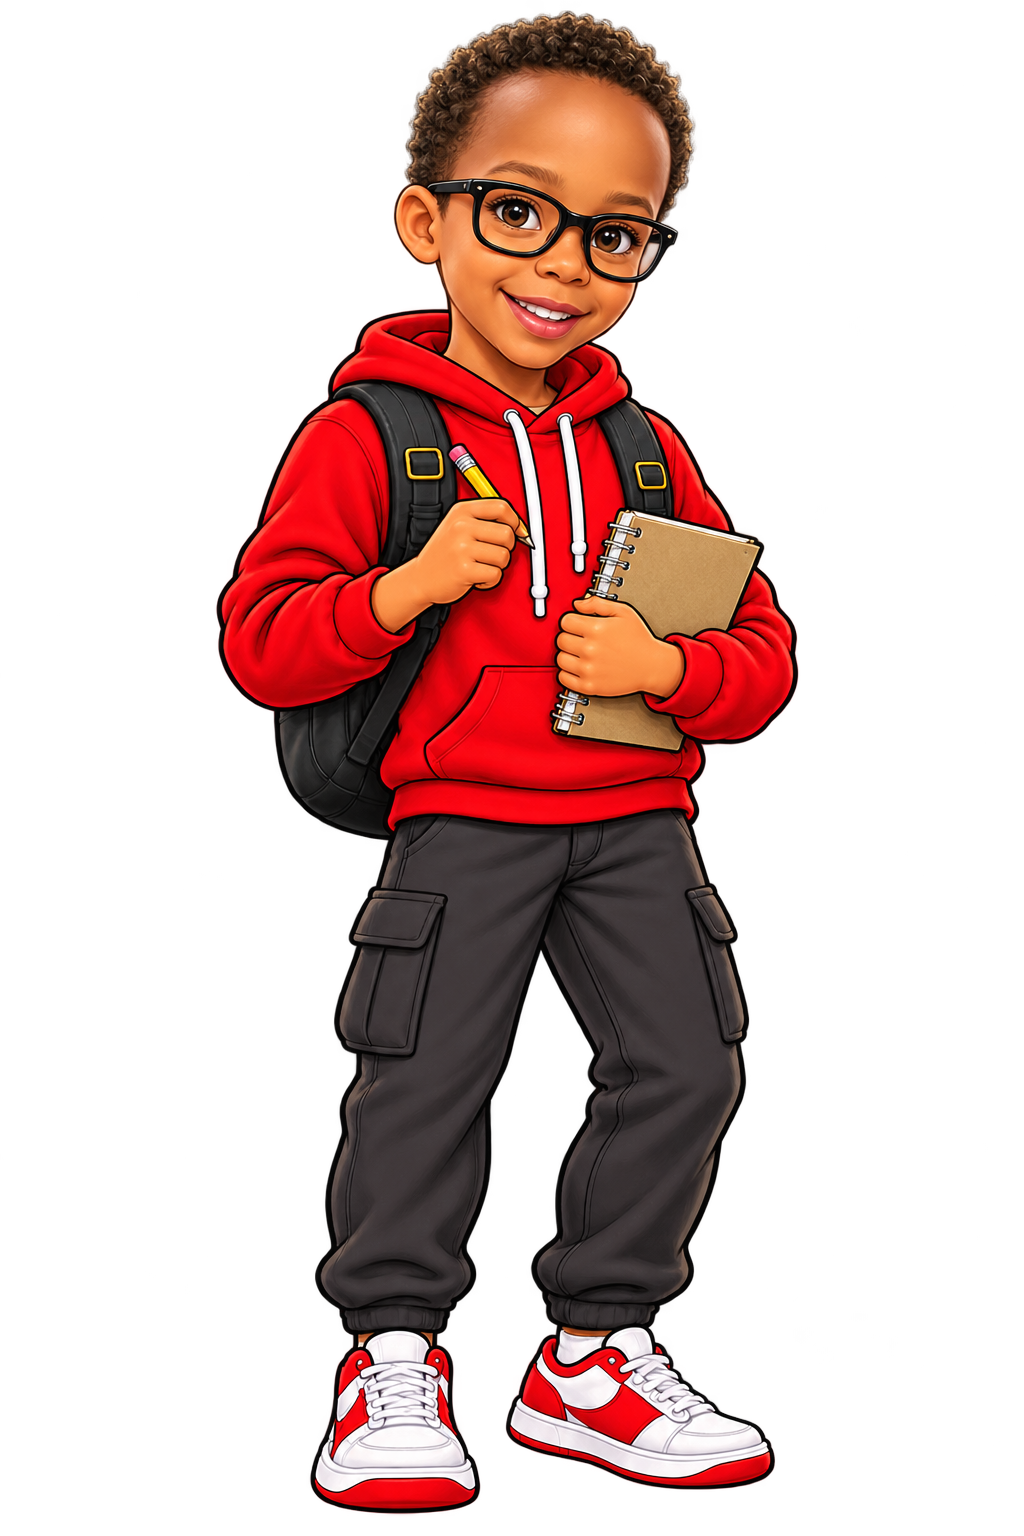
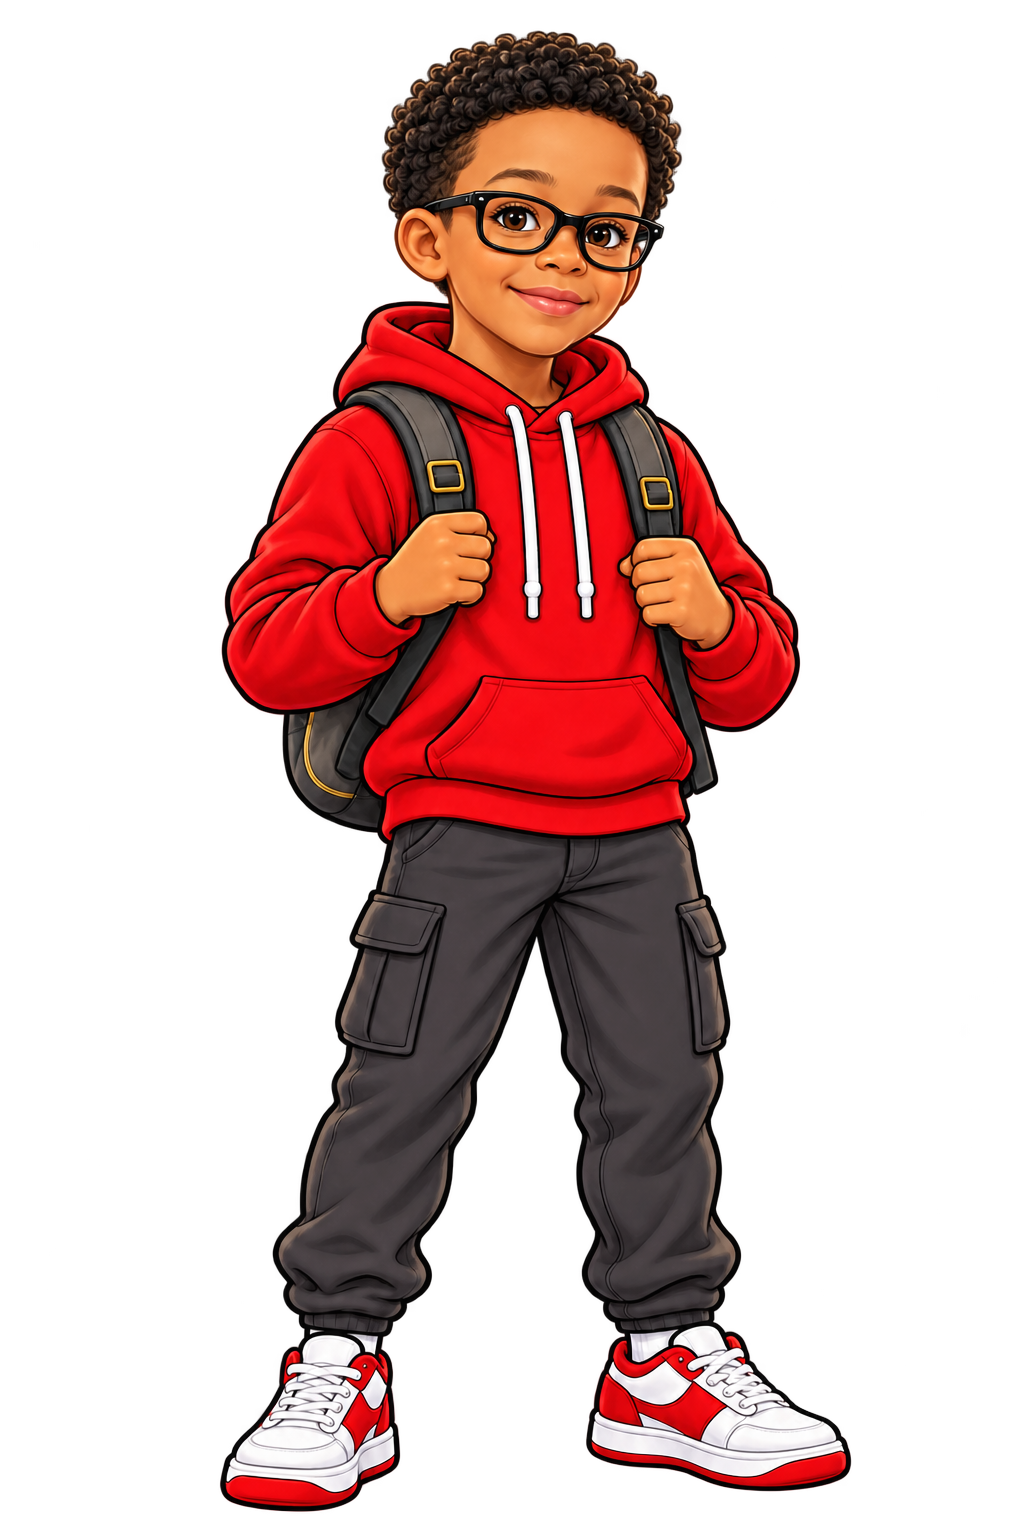
Rebalance Everest and Zion proportions

Changed region(s): [[0.1875, 0.0, 0.8438, 1.0]]

diff --git a/money-ops/src/runner.js b/money-ops/src/runner.js
@@ -5,7 +5,7 @@ export class FinancialRunner{
  constructor(canvas,config,{characterId='maya',ownedItems=[],onUpdate=()=>{},onComplete=()=>{}}={}){
   this.canvas=canvas;this.ctx=canvas.getContext('2d');this.config=config;this.characterId=characterId;this.ownedItems=new Set(ownedItems);this.onUpdate=onUpdate;this.onComplete=onComplete;this.reduced=matchMedia('(prefers-reduced-motion: reduce)').matches;
   this.width=960;this.height=360;this.ground=292;this.entities=[];this.particles=[];this.popups=[];this.keys=new Set();this.running=false;this.paused=false;this.completed=false;this.last=0;this.spawnIn=1.55;this.rewardIn=.45;this.powerIn=11;this.boxIn=5;this.speed=155*config.difficulty;this.distance=0;this.lives=config.maxLives;this.coins=0;this.collected=0;this.bonusMoney=0;this.xp=0;this.score=0;this.avoided=0;this.combo=0;this.powerUpsUsed=0;this.invulnerable=0;this.companionShield=this.ownedItems.has('companion');this.activePower=null;this.state='idle';this.stateTime=0;this.vocabularyIndex=0;this.vocabularySeen=[];this.vocabEvent=null;this.vocabSerial=0;this.player={x:112,y:this.ground-124,w:82,h:124,vy:0,grounded:true,duck:false};
-  this.startedAt=0;this.endAt=0;this.lastHud=0;this.pendingStart=null;this.imageReady=false;this.imageFailed=false;this.image=new Image();this.image.onload=()=>{this.imageReady=true;if(this.pendingStart!==null){const pending=this.pendingStart;this.pendingStart=null;this.start(pending);}};this.image.onerror=()=>{this.imageFailed=true;if(this.pendingStart!==null){const pending=this.pendingStart;this.pendingStart=null;this.start(pending);}};this.image.src=new URL(`../assets/runner/${characterId}-right.png?v=43.5`,import.meta.url).href;this.imageReady=Boolean(this.image.complete&&this.image.naturalWidth);this.boundFrame=time=>this.frame(time);this.boundKeyDown=event=>this.keyDown(event);this.boundKeyUp=event=>this.keyUp(event);this.boundBlur=()=>this.setPaused(true);this.pointerStart=null;
+  this.startedAt=0;this.endAt=0;this.lastHud=0;this.pendingStart=null;this.imageReady=false;this.imageFailed=false;this.image=new Image();this.image.onload=()=>{this.imageReady=true;if(this.pendingStart!==null){const pending=this.pendingStart;this.pendingStart=null;this.start(pending);}};this.image.onerror=()=>{this.imageFailed=true;if(this.pendingStart!==null){const pending=this.pendingStart;this.pendingStart=null;this.start(pending);}};this.image.src=new URL(`../assets/runner/${characterId}-right.png?v=43.6`,import.meta.url).href;this.imageReady=Boolean(this.image.complete&&this.image.naturalWidth);this.boundFrame=time=>this.frame(time);this.boundKeyDown=event=>this.keyDown(event);this.boundKeyUp=event=>this.keyUp(event);this.boundBlur=()=>this.setPaused(true);this.pointerStart=null;
   const ratio=Math.min(2,window.devicePixelRatio||1);canvas.width=this.width*ratio;canvas.height=this.height*ratio;this.ctx.setTransform(ratio,0,0,ratio,0,0);canvas.style.aspectRatio=`${this.width}/${this.height}`;
   canvas.addEventListener('pointerdown',event=>{this.pointerStart={x:event.clientX,y:event.clientY,time:Date.now()};});
   canvas.addEventListener('pointerup',event=>{const start=this.pointerStart;if(!start)return;const dy=event.clientY-start.y;if(dy>38)this.duck(.65);else this.jump();this.pointerStart=null;});

diff --git a/src/runner.js b/src/runner.js
@@ -5,7 +5,7 @@ export class FinancialRunner{
  constructor(canvas,config,{characterId='maya',ownedItems=[],onUpdate=()=>{},onComplete=()=>{}}={}){
   this.canvas=canvas;this.ctx=canvas.getContext('2d');this.config=config;this.characterId=characterId;this.ownedItems=new Set(ownedItems);this.onUpdate=onUpdate;this.onComplete=onComplete;this.reduced=matchMedia('(prefers-reduced-motion: reduce)').matches;
   this.width=960;this.height=360;this.ground=292;this.entities=[];this.particles=[];this.popups=[];this.keys=new Set();this.running=false;this.paused=false;this.completed=false;this.last=0;this.spawnIn=1.55;this.rewardIn=.45;this.powerIn=11;this.boxIn=5;this.speed=155*config.difficulty;this.distance=0;this.lives=config.maxLives;this.coins=0;this.collected=0;this.bonusMoney=0;this.xp=0;this.score=0;this.avoided=0;this.combo=0;this.powerUpsUsed=0;this.invulnerable=0;this.companionShield=this.ownedItems.has('companion');this.activePower=null;this.state='idle';this.stateTime=0;this.vocabularyIndex=0;this.vocabularySeen=[];this.vocabEvent=null;this.vocabSerial=0;this.player={x:112,y:this.ground-124,w:82,h:124,vy:0,grounded:true,duck:false};
-  this.startedAt=0;this.endAt=0;this.lastHud=0;this.pendingStart=null;this.imageReady=false;this.imageFailed=false;this.image=new Image();this.image.onload=()=>{this.imageReady=true;if(this.pendingStart!==null){const pending=this.pendingStart;this.pendingStart=null;this.start(pending);}};this.image.onerror=()=>{this.imageFailed=true;if(this.pendingStart!==null){const pending=this.pendingStart;this.pendingStart=null;this.start(pending);}};this.image.src=new URL(`../assets/runner/${characterId}-right.png?v=43.5`,import.meta.url).href;this.imageReady=Boolean(this.image.complete&&this.image.naturalWidth);this.boundFrame=time=>this.frame(time);this.boundKeyDown=event=>this.keyDown(event);this.boundKeyUp=event=>this.keyUp(event);this.boundBlur=()=>this.setPaused(true);this.pointerStart=null;
+  this.startedAt=0;this.endAt=0;this.lastHud=0;this.pendingStart=null;this.imageReady=false;this.imageFailed=false;this.image=new Image();this.image.onload=()=>{this.imageReady=true;if(this.pendingStart!==null){const pending=this.pendingStart;this.pendingStart=null;this.start(pending);}};this.image.onerror=()=>{this.imageFailed=true;if(this.pendingStart!==null){const pending=this.pendingStart;this.pendingStart=null;this.start(pending);}};this.image.src=new URL(`../assets/runner/${characterId}-right.png?v=43.6`,import.meta.url).href;this.imageReady=Boolean(this.image.complete&&this.image.naturalWidth);this.boundFrame=time=>this.frame(time);this.boundKeyDown=event=>this.keyDown(event);this.boundKeyUp=event=>this.keyUp(event);this.boundBlur=()=>this.setPaused(true);this.pointerStart=null;
   const ratio=Math.min(2,window.devicePixelRatio||1);canvas.width=this.width*ratio;canvas.height=this.height*ratio;this.ctx.setTransform(ratio,0,0,ratio,0,0);canvas.style.aspectRatio=`${this.width}/${this.height}`;
   canvas.addEventListener('pointerdown',event=>{this.pointerStart={x:event.clientX,y:event.clientY,time:Date.now()};});
   canvas.addEventListener('pointerup',event=>{const start=this.pointerStart;if(!start)return;const dy=event.clientY-start.y;if(dy>38)this.duck(.65);else this.jump();this.pointerStart=null;});

diff --git a/money-ops/src/app.js b/money-ops/src/app.js
@@ -15,7 +15,7 @@ const money=n=>new Intl.NumberFormat('en-US',{style:'currency',currency:'USD',ma
 const escape=s=>String(s).replace(/[&<>"']/g,c=>({'&':'&amp;','<':'&lt;','>':'&gt;','"':'&quot;',"'":'&#39;'}[c]));
 const button=(text,action,cls='',extra='')=>`<button class="${cls}" data-action="${action}" ${extra}>${text}</button>`;
 function progress(){const next=nextRank(p.xp);const current=ranks.filter(r=>p.xp>=r[1]).at(-1);const pct=next?Math.min(100,(p.xp-current[1])/(next[1]-current[1])*100):100;return `<div class="xp-row"><span>${p.xp} XP</span><span>${next?`${next[1]-p.xp} TO ${next[0].toUpperCase()}`:'TOP RANK'}</span></div><div class="bar" role="progressbar" aria-label="Rank progress" aria-valuenow="${Math.round(pct)}" aria-valuemin="0" aria-valuemax="100"><i style="width:${pct}%"></i></div>`;}
-function header(){const arcade=p.mode==='arcade';return `<header><a class="brand" href="./" aria-label="Money Ops home"><span class="brand-mark">M<span>↗</span></span><span><small>FINANCIAL FREEDOM</small><b>MONEY OPS<span class="version"> / 43.5</span></b></span></a><div class="header-right"><span class="system ${arcade?'arcade-unsaved':''}"><i></i> ${arcade?'ARCADE MODE · NOT SAVED':'CAREER SAVED'}</span>${button(p.muted?'SOUND OFF':'SOUND ON','mute','utility',`aria-pressed="${!p.muted}" aria-label="${p.muted?'Enable':'Mute'} sound"`)}</div></header>`;}
+function header(){const arcade=p.mode==='arcade';return `<header><a class="brand" href="./" aria-label="Money Ops home"><span class="brand-mark">M<span>↗</span></span><span><small>FINANCIAL FREEDOM</small><b>MONEY OPS<span class="version"> / 43.6</span></b></span></a><div class="header-right"><span class="system ${arcade?'arcade-unsaved':''}"><i></i> ${arcade?'ARCADE MODE · NOT SAVED':'CAREER SAVED'}</span>${button(p.muted?'SOUND OFF':'SOUND ON','mute','utility',`aria-pressed="${!p.muted}" aria-label="${p.muted?'Enable':'Mute'} sound"`)}</div></header>`;}
 function playerPortrait(className='',id=p.avatar){return characters[id]?portrait(id,className):`<span class="avatar">${escape(id)}</span>`;}
 function runnerCharacterId(session=p?.runnerSession){if(p?.mode==='arcade')return p.avatar;const lesson=Math.max(1,Number(session?.lessonId)||1),offset=session?.phase==='post'?1:0;return castIds[(lesson-1+offset)%castIds.length];}
 const bonusItems=[{id:'boots',name:'BOOST BOOTS',price:5,icon:'⇧',detail:'Jump higher.'},{id:'magnet',name:'COIN MAGNET',price:10,icon:'◎',detail:'Pull coins closer.'},{id:'companion',name:'PENNY THE MONEY DRAGON',price:15,icon:'🐲',detail:'Your original Money Ops sidekick blocks one hit.'}];

diff --git a/src/app.js b/src/app.js
@@ -15,7 +15,7 @@ const money=n=>new Intl.NumberFormat('en-US',{style:'currency',currency:'USD',ma
 const escape=s=>String(s).replace(/[&<>"']/g,c=>({'&':'&amp;','<':'&lt;','>':'&gt;','"':'&quot;',"'":'&#39;'}[c]));
 const button=(text,action,cls='',extra='')=>`<button class="${cls}" data-action="${action}" ${extra}>${text}</button>`;
 function progress(){const next=nextRank(p.xp);const current=ranks.filter(r=>p.xp>=r[1]).at(-1);const pct=next?Math.min(100,(p.xp-current[1])/(next[1]-current[1])*100):100;return `<div class="xp-row"><span>${p.xp} XP</span><span>${next?`${next[1]-p.xp} TO ${next[0].toUpperCase()}`:'TOP RANK'}</span></div><div class="bar" role="progressbar" aria-label="Rank progress" aria-valuenow="${Math.round(pct)}" aria-valuemin="0" aria-valuemax="100"><i style="width:${pct}%"></i></div>`;}
-function header(){const arcade=p.mode==='arcade';return `<header><a class="brand" href="./" aria-label="Money Ops home"><span class="brand-mark">M<span>↗</span></span><span><small>FINANCIAL FREEDOM</small><b>MONEY OPS<span class="version"> / 43.5</span></b></span></a><div class="header-right"><span class="system ${arcade?'arcade-unsaved':''}"><i></i> ${arcade?'ARCADE MODE · NOT SAVED':'CAREER SAVED'}</span>${button(p.muted?'SOUND OFF':'SOUND ON','mute','utility',`aria-pressed="${!p.muted}" aria-label="${p.muted?'Enable':'Mute'} sound"`)}</div></header>`;}
+function header(){const arcade=p.mode==='arcade';return `<header><a class="brand" href="./" aria-label="Money Ops home"><span class="brand-mark">M<span>↗</span></span><span><small>FINANCIAL FREEDOM</small><b>MONEY OPS<span class="version"> / 43.6</span></b></span></a><div class="header-right"><span class="system ${arcade?'arcade-unsaved':''}"><i></i> ${arcade?'ARCADE MODE · NOT SAVED':'CAREER SAVED'}</span>${button(p.muted?'SOUND OFF':'SOUND ON','mute','utility',`aria-pressed="${!p.muted}" aria-label="${p.muted?'Enable':'Mute'} sound"`)}</div></header>`;}
 function playerPortrait(className='',id=p.avatar){return characters[id]?portrait(id,className):`<span class="avatar">${escape(id)}</span>`;}
 function runnerCharacterId(session=p?.runnerSession){if(p?.mode==='arcade')return p.avatar;const lesson=Math.max(1,Number(session?.lessonId)||1),offset=session?.phase==='post'?1:0;return castIds[(lesson-1+offset)%castIds.length];}
 const bonusItems=[{id:'boots',name:'BOOST BOOTS',price:5,icon:'⇧',detail:'Jump higher.'},{id:'magnet',name:'COIN MAGNET',price:10,icon:'◎',detail:'Pull coins closer.'},{id:'companion',name:'PENNY THE MONEY DRAGON',price:15,icon:'🐲',detail:'Your original Money Ops sidekick blocks one hit.'}];

diff --git a/money-ops/tests/runner-engine.test.js b/money-ops/tests/runner-engine.test.js
@@ -27,7 +27,8 @@ test('the three updated boys have distinct high-resolution transparent portrait 
  for(const id of ['jordan','kai','eli']){
   const portrait=dimensions(new URL(`../assets/cast/${id}.png`,import.meta.url));
   const runner=dimensions(new URL(`../assets/runner/${id}-right.png`,import.meta.url));
-  assert.ok(portrait.width>=800&&portrait.height>=1500,`${id} needs high-resolution portrait art`);
+  assert.equal(portrait.width,1024,`${id} portrait canvas width`);
+  assert.equal(portrait.height,1536,`${id} portrait canvas height`);
   assert.ok(runner.width>=1300&&runner.height>=1100,`${id} needs high-resolution runner art`);
   assert.equal(portrait.colorType,6,`${id} portrait needs transparency`);
   assert.equal(runner.colorType,6,`${id} runner needs transparency`);
@@ -53,7 +54,7 @@ test('the run ends when the player collects the 100th reward',()=>{
 
 test('the selected character art is loaded and the kid-friendly pace accelerates gently',()=>{
  const game=harness(1,'pre').runner;
- assert.match(game.image._src,/assets\/runner\/maya-right\.png\?v=43\.5$/);
+ assert.match(game.image._src,/assets\/runner\/maya-right\.png\?v=43\.6$/);
  assert.equal(game.player.w,82);
  assert.equal(game.player.h,124);
  assert.equal(game.speed,155);
@@ -75,7 +76,7 @@ test('Money Boxes add bonus dollars and owned items change play',()=>{
  assert.equal(game.runner.companionShield,true);
  game.runner.invulnerable=0;game.runner.hitObstacle({x:200,y:240,w:50,h:50,done:false});
  assert.equal(game.runner.lives,3,'the original companion blocks one collision');
- assert.match(game.runner.image._src,/assets\/runner\/ruby-right\.png\?v=43\.5$/);
+ assert.match(game.runner.image._src,/assets\/runner\/ruby-right\.png\?v=43\.6$/);
 });
 
 test('runner events publish lesson vocabulary for the side stream',()=>{

diff --git a/tests/runner-engine.test.js b/tests/runner-engine.test.js
@@ -27,7 +27,8 @@ test('the three updated boys have distinct high-resolution transparent portrait 
  for(const id of ['jordan','kai','eli']){
   const portrait=dimensions(new URL(`../assets/cast/${id}.png`,import.meta.url));
   const runner=dimensions(new URL(`../assets/runner/${id}-right.png`,import.meta.url));
-  assert.ok(portrait.width>=800&&portrait.height>=1500,`${id} needs high-resolution portrait art`);
+  assert.equal(portrait.width,1024,`${id} portrait canvas width`);
+  assert.equal(portrait.height,1536,`${id} portrait canvas height`);
   assert.ok(runner.width>=1300&&runner.height>=1100,`${id} needs high-resolution runner art`);
   assert.equal(portrait.colorType,6,`${id} portrait needs transparency`);
   assert.equal(runner.colorType,6,`${id} runner needs transparency`);
@@ -53,7 +54,7 @@ test('the run ends when the player collects the 100th reward',()=>{
 
 test('the selected character art is loaded and the kid-friendly pace accelerates gently',()=>{
  const game=harness(1,'pre').runner;
- assert.match(game.image._src,/assets\/runner\/maya-right\.png\?v=43\.5$/);
+ assert.match(game.image._src,/assets\/runner\/maya-right\.png\?v=43\.6$/);
  assert.equal(game.player.w,82);
  assert.equal(game.player.h,124);
  assert.equal(game.speed,155);
@@ -75,7 +76,7 @@ test('Money Boxes add bonus dollars and owned items change play',()=>{
  assert.equal(game.runner.companionShield,true);
  game.runner.invulnerable=0;game.runner.hitObstacle({x:200,y:240,w:50,h:50,done:false});
  assert.equal(game.runner.lives,3,'the original companion blocks one collision');
- assert.match(game.runner.image._src,/assets\/runner\/ruby-right\.png\?v=43\.5$/);
+ assert.match(game.runner.image._src,/assets\/runner\/ruby-right\.png\?v=43\.6$/);
 });
 
 test('runner events publish lesson vocabulary for the side stream',()=>{

diff --git a/index.html b/index.html
@@ -1,2 +1,2 @@
 <!doctype html>
-<html lang="en"><head><meta charset="utf-8"><meta name="viewport" content="width=device-width,initial-scale=1"><meta name="theme-color" content="#101816"><link rel="icon" type="image/svg+xml" href="favicon.svg"><title>Financial Freedom: Money Ops — The Financial Runner</title><link rel="stylesheet" href="style.css?v=43.5"></head><body><a class="skip" href="#main">Skip to game</a><div id="app"></div><div id="announcer" class="sr" role="status" aria-live="polite"></div><script type="module" src="src/app.js?v=43.5"></script></body></html>
+<html lang="en"><head><meta charset="utf-8"><meta name="viewport" content="width=device-width,initial-scale=1"><meta name="theme-color" content="#101816"><link rel="icon" type="image/svg+xml" href="favicon.svg"><title>Financial Freedom: Money Ops — The Financial Runner</title><link rel="stylesheet" href="style.css?v=43.6"></head><body><a class="skip" href="#main">Skip to game</a><div id="app"></div><div id="announcer" class="sr" role="status" aria-live="polite"></div><script type="module" src="src/app.js?v=43.6"></script></body></html>

diff --git a/money-ops/index.html b/money-ops/index.html
@@ -1,2 +1,2 @@
 <!doctype html>
-<html lang="en"><head><meta charset="utf-8"><meta name="viewport" content="width=device-width,initial-scale=1"><meta name="theme-color" content="#101816"><link rel="icon" type="image/svg+xml" href="favicon.svg"><title>Financial Freedom: Money Ops — The Financial Runner</title><link rel="stylesheet" href="style.css?v=43.5"></head><body><a class="skip" href="#main">Skip to game</a><div id="app"></div><div id="announcer" class="sr" role="status" aria-live="polite"></div><script type="module" src="src/app.js?v=43.5"></script></body></html>
+<html lang="en"><head><meta charset="utf-8"><meta name="viewport" content="width=device-width,initial-scale=1"><meta name="theme-color" content="#101816"><link rel="icon" type="image/svg+xml" href="favicon.svg"><title>Financial Freedom: Money Ops — The Financial Runner</title><link rel="stylesheet" href="style.css?v=43.6"></head><body><a class="skip" href="#main">Skip to game</a><div id="app"></div><div id="announcer" class="sr" role="status" aria-live="polite"></div><script type="module" src="src/app.js?v=43.6"></script></body></html>

diff --git a/money-ops/src/characters.js b/money-ops/src/characters.js
@@ -13,7 +13,7 @@ export const character=id=>characters[id]||characters.maya;
 
 export function portrait(id,className=''){
  const c=character(id);
- return `<img class="character-portrait ${className}" src="assets/cast/${c.image}?v=43.5" alt="${c.name}, ${c.role}">`;
+ return `<img class="character-portrait ${className}" src="assets/cast/${c.image}?v=43.6" alt="${c.name}, ${c.role}">`;
 }
 
 export function castPortraits(className='',ids=castIds){

diff --git a/src/characters.js b/src/characters.js
@@ -13,7 +13,7 @@ export const character=id=>characters[id]||characters.maya;
 
 export function portrait(id,className=''){
  const c=character(id);
- return `<img class="character-portrait ${className}" src="assets/cast/${c.image}?v=43.5" alt="${c.name}, ${c.role}">`;
+ return `<img class="character-portrait ${className}" src="assets/cast/${c.image}?v=43.6" alt="${c.name}, ${c.role}">`;
 }
 
 export function castPortraits(className='',ids=castIds){
